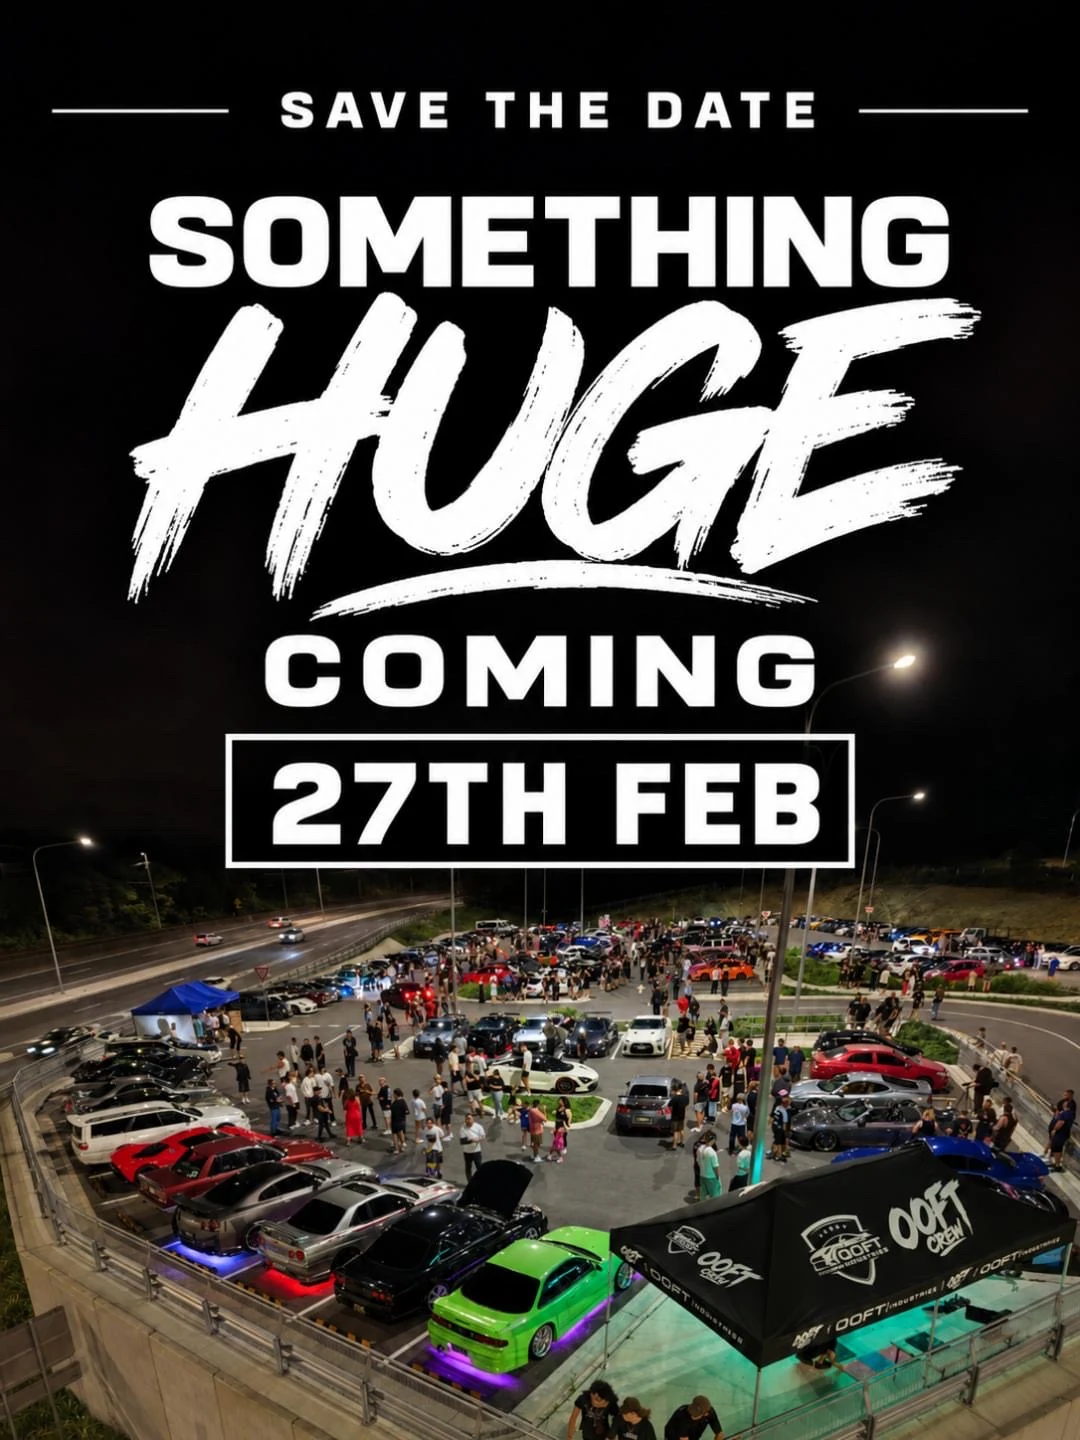
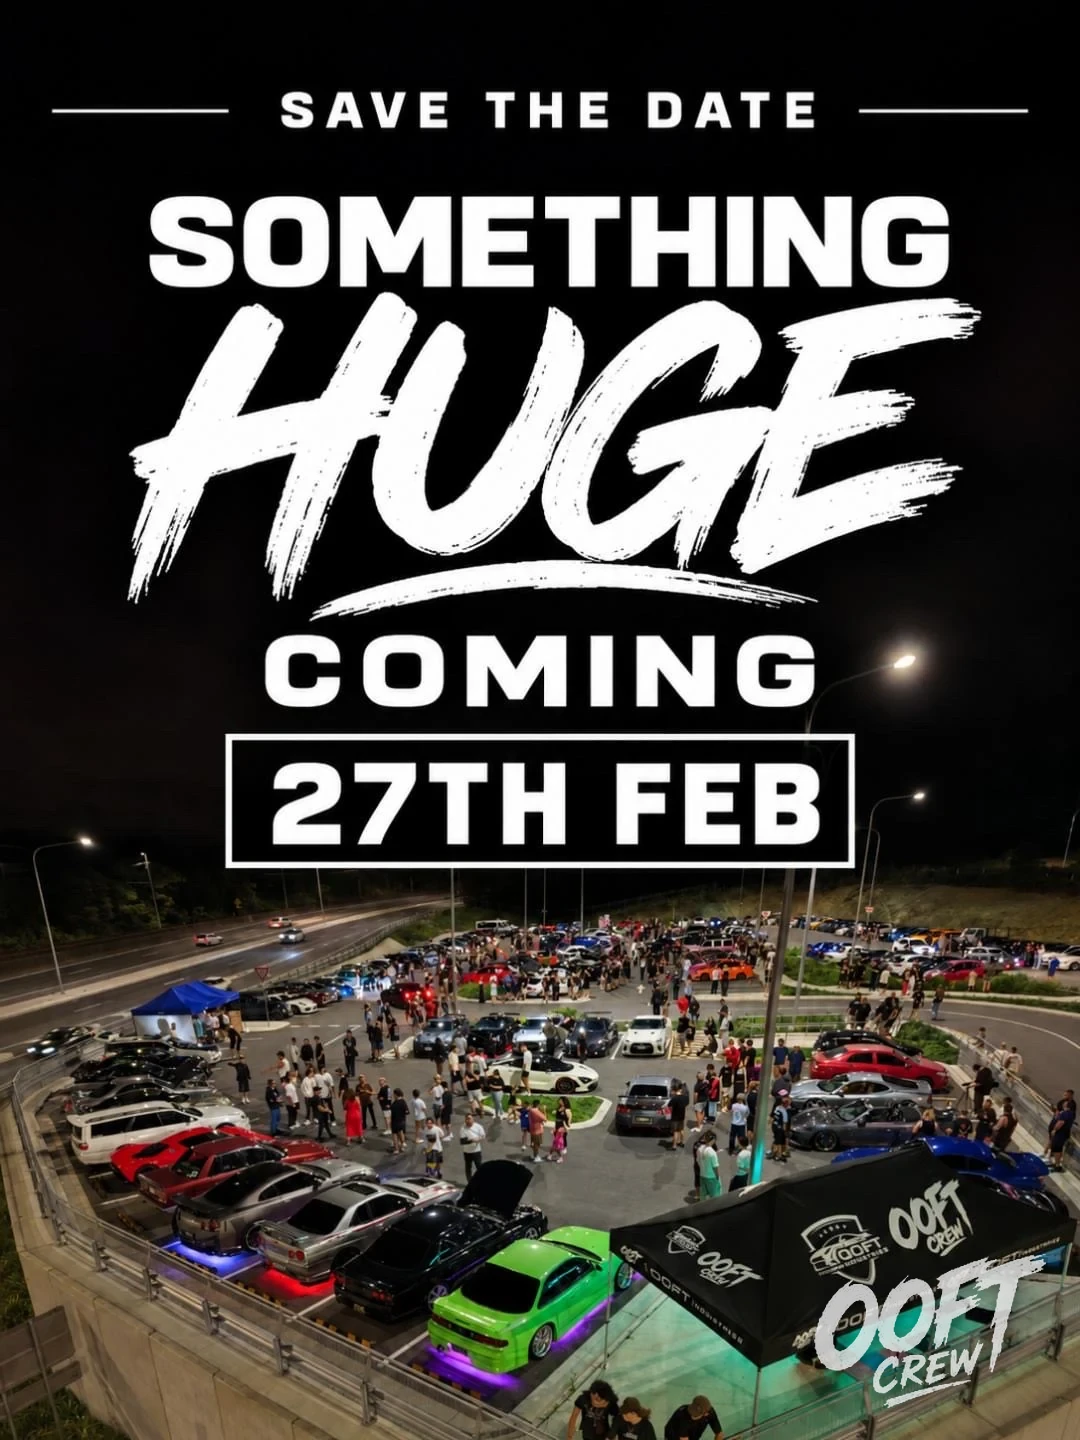
Watermark the 27 Feb OOFT Crew poster.
Add the white brush OOFT CREW mark in the bottom-right corner and cache-bust the poster and news.js.

Changed region(s): [[0.7333, 0.875, 0.9778, 1.0]]

diff --git a/index.html b/index.html
@@ -1,4 +1,4 @@
-<!doctype html><html lang="en-AU"><head><meta charset="utf-8"><meta name="viewport" content="width=device-width,initial-scale=1,viewport-fit=cover"><script>(function(){var meta=document.querySelector('meta[name=viewport]');var open='width=device-width,initial-scale=1,maximum-scale=1,user-scalable=no,viewport-fit=cover';var rest='width=device-width,initial-scale=1,viewport-fit=cover';var mq=window.matchMedia('(max-width:768px)');function apply(){if(meta)meta.setAttribute('content',mq.matches?open:rest)}apply();if(mq.addEventListener)mq.addEventListener('change',apply);function blockGesture(e){if(mq.matches)e.preventDefault()}document.addEventListener('gesturestart',blockGesture,{passive:false});document.addEventListener('gesturechange',blockGesture,{passive:false});document.addEventListener('gestureend',blockGesture,{passive:false});try{var htmlBuild='546';var u=new URL(location.href);if(u.searchParams.get('html')!==htmlBuild&&sessionStorage.getItem('imdrivn_html')!==htmlBuild){sessionStorage.setItem('imdrivn_html',htmlBuild);u.searchParams.set('html',htmlBuild);location.replace(u.pathname+u.search+u.hash)}}catch(e){}})();</script>
+<!doctype html><html lang="en-AU"><head><meta charset="utf-8"><meta name="viewport" content="width=device-width,initial-scale=1,viewport-fit=cover"><script>(function(){var meta=document.querySelector('meta[name=viewport]');var open='width=device-width,initial-scale=1,maximum-scale=1,user-scalable=no,viewport-fit=cover';var rest='width=device-width,initial-scale=1,viewport-fit=cover';var mq=window.matchMedia('(max-width:768px)');function apply(){if(meta)meta.setAttribute('content',mq.matches?open:rest)}apply();if(mq.addEventListener)mq.addEventListener('change',apply);function blockGesture(e){if(mq.matches)e.preventDefault()}document.addEventListener('gesturestart',blockGesture,{passive:false});document.addEventListener('gesturechange',blockGesture,{passive:false});document.addEventListener('gestureend',blockGesture,{passive:false});try{var htmlBuild='547';var u=new URL(location.href);if(u.searchParams.get('html')!==htmlBuild&&sessionStorage.getItem('imdrivn_html')!==htmlBuild){sessionStorage.setItem('imdrivn_html',htmlBuild);u.searchParams.set('html',htmlBuild);location.replace(u.pathname+u.search+u.hash)}}catch(e){}})();</script>
 <title>IM DRIVN. More than a Marketplace … It's a Community</title>
 <meta name="description" content="Buy, sell and talk cars. Free listings, a scroll-first feed and a real car community.">
 <link rel="icon" href="favicon.ico?v=147" sizes="any">
@@ -67,4 +67,4 @@
 <a href="#/join" data-r="join" aria-label="Profile"><svg viewBox="0 0 24 24"><circle cx="12" cy="8" r="4"/><path d="M4 21c1-4.5 4-6 8-6s7 1.5 8 6"/></svg></a></nav>
 <script>(function(){var full='img/logo-full.png',probe=new Image();probe.onload=function(){document.querySelectorAll('img[data-wordmark]').forEach(function(el){el.src=full})};probe.src=full})();</script>
 <script src="https://cdn.jsdelivr.net/npm/@supabase/supabase-js@2.118.0/dist/umd/supabase.js"></script>
-<script src="data.js?v=113"></script><script src="store.js?v=144"></script><script src="list-flow.js?v=131"></script><script src="valuation-flow.js?v=122"></script><script src="forum.js?v=142"></script><script src="news.js?v=118"></script><script src="drag.js?v=3"></script><script src="app.js?v=349"></script></body></html>
+<script src="data.js?v=113"></script><script src="store.js?v=144"></script><script src="list-flow.js?v=131"></script><script src="valuation-flow.js?v=122"></script><script src="forum.js?v=142"></script><script src="news.js?v=119"></script><script src="drag.js?v=3"></script><script src="app.js?v=349"></script></body></html>

diff --git a/news.js b/news.js
@@ -5,7 +5,7 @@ const NEWS_TITLE = "IM DRIVN. More than a Marketplace … It's a Community";
 const NEWS_DESC = "Buy, sell and talk cars. Free listings, a scroll-first feed and a real car community.";
 const EVENT_POSTERS = [
   {
-    src: 'assets/events/ooft-27-feb.webp',
+    src: 'assets/events/ooft-27-feb.webp?v=2',
     title: 'Save the Date - 27th Feb (OOFT Crew)',
     alt: 'Save the Date: Something Huge Coming 27th Feb, OOFT Crew car meet poster',
     url: ''
